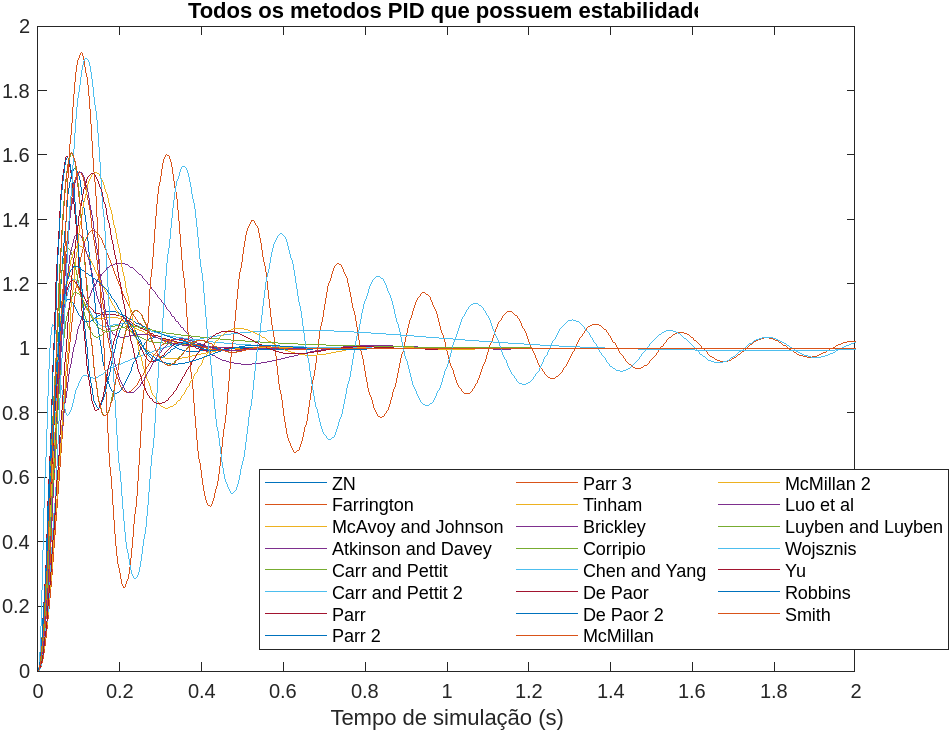
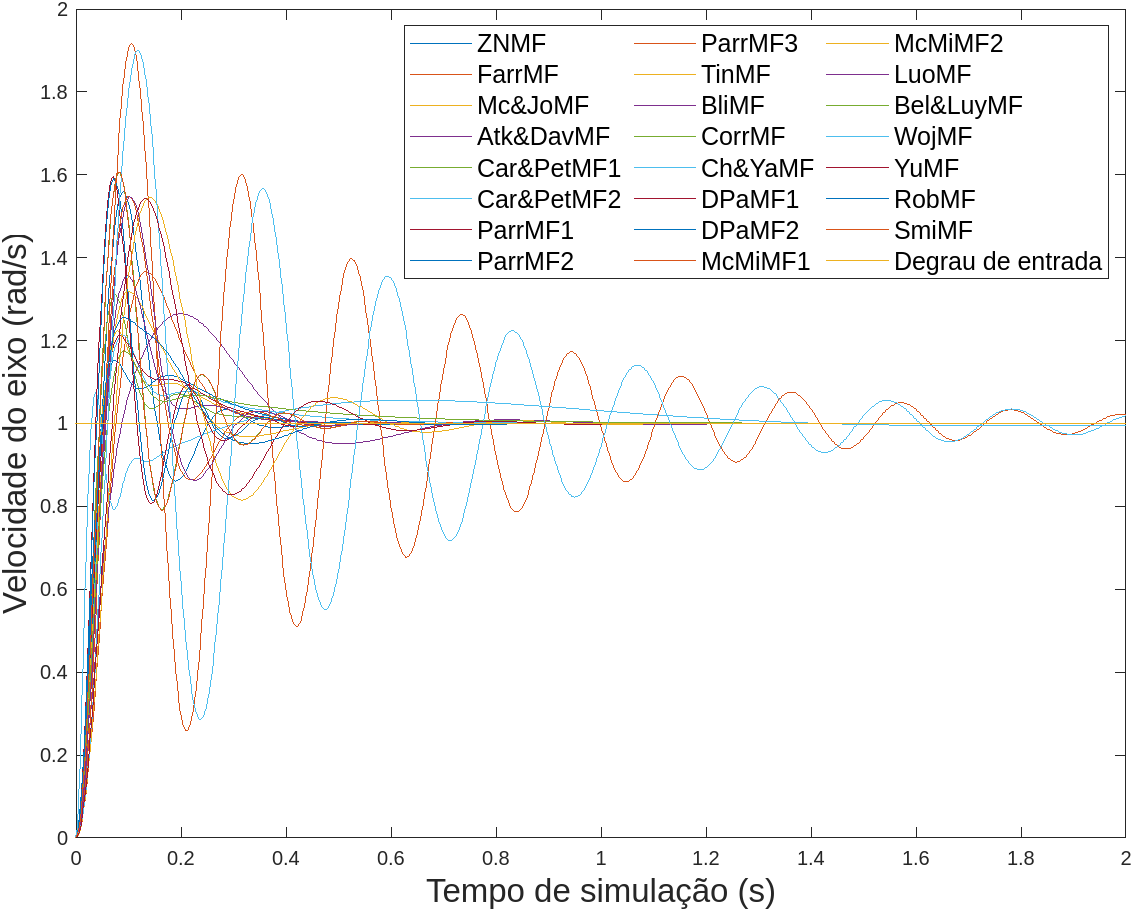
Update after partial report review

diff --git a/PID_Tuning.m b/PID_Tuning.m
@@ -11,11 +11,16 @@ function [Kp, Td, Ti, Metodos] = PID_Tuning(Tuning_Param,Type)
         K   = Tuning_Param(1);
         tal = Tuning_Param(2);
         T   = Tuning_Param(3);
-        Metodos = ["ZN"                   "Parr"          "Chidambaram" ...
-                   "Borresen and Grindal" "Murrill"       "Lipták"      ...
-                   "Alfaro Ruiz"          "Alfaro Ruiz 2" "PMA"         ...
-                   "PMA 2"                "Chien"         "Chien 2"     ...
-                   "Cohen and Coon"];
+%         "ZN"                   "Parr"          "Chidambaram" ...
+%                    "Borresen and Grindal" "Murrill"       "Lipták"      ...
+%                    "Alfaro Ruiz"          "Alfaro Ruiz 2" "PMA"         ...
+%                    "PMA 2"                "Chien"         "Chien 2"     ...
+%         
+        Metodos = ["ZNMA"      "ParrMA" "ChiMA"  ...
+                   "Bor&GriMA" "MurMA"  "LipMA"  ...
+                   "AlfMA1"    "AlfMA2" "PmaMA1" ...
+                   "PmaMA2"    "CHMA1"  "CHMA2"  ...
+                   "CCMA"];
         Kp = zeros(1,size(Metodos,2));
         Td = zeros(1,size(Metodos,2));
         Ti = zeros(1,size(Metodos,2));
@@ -89,15 +94,24 @@ function [Kp, Td, Ti, Metodos] = PID_Tuning(Tuning_Param,Type)
     if strcmp('MF', Type)
         K = Tuning_Param(1);
         T = Tuning_Param(2);
-        Metodos = ["ZN"                 "Farrington"           "McAvoy and Johnson" ...
-                   "Atkinson and Davey" "Carr and Pettit"      "Carr and Pettit 2"  ...
-                   "Parr"               "Parr 2"               "Parr 3"             ...
-                   "Tinham"             "Blickley"             "Corripio"           ...
-                   "Chen and Yang"      "De Paor"              "De Paor 2"          ...
-                   "McMillan"           "McMillan 2"           "Calcev and Gorez"   ...
-                   "Luo et al"          "Karaboga and Kalinli" "Luyben and Luyben"  ...
-                   "Wojsznis"           "Yu"                   "Robbins"            ...
-                   "Smith"];
+%         Metodos = ["ZN"                 "Farrington"           "McAvoy and Johnson"   ...
+%                    "Atkinson and Davey" "Carr and Pettit"      "Carr and Pettit 2"    ...
+%                    "Parr"               "Parr 2"               "Parr 3"               ...
+%                    "Tinham"             "Blickley"             "Corripio"             ...
+%                    "Chen and Yang"      "De Paor"              "De Paor 2"            ...
+%                    "McMillan"           "McMillan 2"           "Calcev and Gorez"     ...
+%                    "Luo et al"          "Karaboga and Kalinli" "Belanger and Luyben " ...
+%                    "Wojsznis"           "Yu"                   "Robbins"              ...
+%                    "Smith"];
+        Metodos = ["ZNMF"                 "FarrMF"           "Mc&JoMF" ...
+                   "Atk&DavMF" "Car&PetMF1"      "Car&PetMF2"  ...
+                   "ParrMF1"               "ParrMF2"               "ParrMF3"             ...
+                   "TinMF"             "BliMF"             "CorrMF"           ...
+                   "Ch&YaMF"      "DPaMF1"              "DPaMF2"          ...
+                   "McMiMF1"           "McMiMF2"           "Ca&GoMF"   ...
+                   "LuoMF"          "Kar&KalMF" "Bel&LuyMF"  ...
+                   "WojMF"           "YuMF"                   "RobMF"            ...
+                   "SmiMF"];
 
         Kp = zeros(1,size(Metodos,2));
         Td = zeros(1,size(Metodos,2));

diff --git a/PID_Run.m b/PID_Run.m
@@ -1,20 +1,22 @@
-function PID_Run(transfer, type, t, MF_K, subtitle)
+function PID_Run(transfer, type, t, MF_K, subtitle, f_0)
 %PID_RUN Run the entire PID execution script
 %   Runs all the functions necessary
 %   transfer - transfer function of the plant
 %   type - "MA" for open loop or "MF" for closed loop
 %   t - time that will be used for the simulation
-%   MF_K (0 if not closed loop) - Value for closed loop oscilation gain
+%   MF_K - (0 if not closed loop) - Value for closed loop oscilation gain
 %   Subtitle - Text to be shown in the Y axis of the graphs (Varies, X is
 %   always seconds)
+%   f_0 - In case the inflexion point in an open loop is not detected
+%   correctly, insert an number that can be used as a reference
     fname = "[PID_Run]";
-    
+    fontSize = 16;
     % Prepare the time
     t_max = t(end);
     
     % Define The non pid parameters
     if (type == "MA")
-        [K, tal, T] = MA(t, transfer, subtitle);
+        [K, tal, T] = MA(t, transfer, subtitle, f_0);
         Tuning_Param = [K, tal, T];
         
     elseif (type == "MF")
@@ -44,13 +46,13 @@ function PID_Run(transfer, type, t, MF_K, subtitle)
     Not_used = strings(1,size_Array);
     Used = strings(1,size_Array);
     figure(2);
-
     for i = 1:size_Array
         Kp = KP(i);
         Td = TD(i);
         Ti = TI(i);
         [stable, res] = PID_Execution(transfer,Kp, Ti, Td, t_max);
         if (stable < 0)
+            t_ref = res.tout;
             Used(i) = Metodos(i);
             plot(res.tout, res.out, 'DisplayName', Used(i));
             hold on; 
@@ -60,29 +62,34 @@ function PID_Run(transfer, type, t, MF_K, subtitle)
             Not_used(i) = Metodos(i);
         end
     end
-    title("Todos os metodos PID que possuem estabilidade");
-    xlabel("Tempo de simulação (s)");
-    ylabel(subtitle);
-    hold off;
-    lgd = legend;
-    lgd.NumColumns = 3;
-
+    hold on;
     % Clear the output
     [Used, Not_used, ISE, IAE, IATE, MSE, RMSE,   ...
      IADU, ITSE, ISTE, ITDE, ST, RT, MD, OS] =    ...
      ...
-     Clear_Output(Used, Not_used, ISE, IAE, IATE, ...
+     Clear_Output(Used, Not_used, KP, TD, TI, ISE, IAE, IATE, ...
      MSE, RMSE, IADU, ITSE, ISTE, ITDE, ST, RT, MD, OS);
+
+    plot(t_ref, ones(1,size(t_ref,1)));
+    xlabel("Tempo de simulação (s)", 'FontSize',fontSize);
+    legendText = [Used "Degrau de entrada"];
+    lgd = legend(legendText);
+    lgd.NumColumns = 3;
+    lgd.FontSize = 12;
+
+    ISE = ISE';
+    IAE = IAE';
+    IATE = IATE';
+    KP = arrayfun(@(a)num2str(round(a, 3)),KP,'uni',0);
+    TD = arrayfun(@(a)num2str(round(a, 3)),TD,'uni',0);
+    TI = arrayfun(@(a)num2str(round(a, 3)),TI,'uni',0);
+    espaco = cell(1, size(Used,2));
+    espaco(:) = {' || '};
+    PID = string(strcat(KP, espaco, TD, espaco, TI))';
     
-    legend(Used);
-
-    figure(3);
-    Table = table(ISE,IAE,IATE,MSE,RMSE,IADU,ITSE,ISTE,ITDE,ST,RT,MD,OS,'RowNames',cellstr(Used));
-    uitable('Data',Table{:,:},'ColumnName',Table.Properties.VariableNames,...
-    'RowName',Table.Properties.RowNames,'Units', 'Normalized', 'Position',[0, 0, 1, 1]);
-
-    fig = uifigure;
-    T = table(Not_used');
-    uitable(fig, 'Data', T, 'ColumnName', "Unstable methods");
+    Method = cellstr(Used)';
+    Table = table(Method, PID, ISE, IAE, IATE, MSE, RMSE, IADU, ...
+                  ITSE, ISTE, ITDE, ST, RT, MD, OS);
+    
     writetable(Table,'PERFORMANCE.xlsx','Sheet',1)
 end

diff --git a/MA.m b/MA.m
@@ -1,5 +1,6 @@
-function [K, tal, T] = MA(t, transfer, subtitle)
+function [K, tal, T] = MA(t, transfer, subtitle, f_0)
 %MA Simulates the step response and analyzes to get the tuning parameters
+    fontSize = 18;
     syms s;
     [NUM, DEN] = tfdata(transfer, 'v');
     DEN = [DEN 0];
@@ -11,7 +12,7 @@ function [K, tal, T] = MA(t, transfer, subtitle)
     d_1_h = matlabFunction(d_1);
     d_2 = diff(d_1);
     d_2_h = matlabFunction(d_2);
-    x_sample = fzero(d_2_h, 0);
+    x_sample = fzero(d_2_h, f_0);
     x_sample = find(x_sample >= t, 1 , 'last');
     if ((x_sample < 0) || isempty(x_sample))
         x_sample = find(x_sample > 0, 1 , 'first');
@@ -64,9 +65,12 @@ function [K, tal, T] = MA(t, transfer, subtitle)
     plot(t, f_t_h(t));
     hold on;
     plot(t, ones(1,size(t,1)));
-    title("Simulação de malha aberta com a reta característica de ZN");
-    xlabel("Tempo de simulação (s)");
-    ylabel(subtitle);
+    xlabel("Tempo de simulação (s)", 'FontSize', fontSize);
+    ylabel(subtitle, 'FontSize', fontSize);
+    lgd = legend("Reta no ponto de inflexão", ...
+           "Resposta do sistema", ...
+           "Degrau de entrada");
+    lgd.FontSize = 16;
 
     % Calculo dos outros parâmetros de estabilidade 
     T = tal_start;

diff --git a/Clear_Output.m b/Clear_Output.m
@@ -1,4 +1,4 @@
-function [Clear_Used, Clear_Unused, ISE, IAE, IATE, MSE, RMSE, IADU, ITSE, ISTE, ITDE, ST, RT, MD, OS] = Clear_Output(Used, Unused, ISE, IAE, IATE, MSE, RMSE, IADU, ITSE, ISTE, ITDE, ST, RT, MD, OS)
+function [Clear_Used, Clear_Unused, KP, TD, TI, ISE, IAE, IATE, MSE, RMSE, IADU, ITSE, ISTE, ITDE, ST, RT, MD, OS] = Clear_Output(Used, Unused, KP, TD, TI, ISE, IAE, IATE, MSE, RMSE, IADU, ITSE, ISTE, ITDE, ST, RT, MD, OS)
 %CLEAR_OUTPUT Gets all the parameters for the stable functions
 %   Uses the empty spaces in Used to now which performance metrics from the
 %   arrays to ignore and set arrays with all the necessary values for
@@ -9,6 +9,9 @@ Used_index = ~cellfun(@isempty,cellstr(Used));
 Clear_Used = Used(Used_index);
 Clear_Unused = Unused(~Used_index);
 
+KP = real(KP(Used_index)); 
+TD = real(TD(Used_index)); 
+TI = real(TI(Used_index)); 
 ISE = real(ISE(Used_index)); 
 IAE = real(IAE(Used_index)); 
 IATE = real(IATE(Used_index)); 

diff --git a/MF.m b/MF.m
@@ -1,18 +1,20 @@
 function [T] = MF(t,transfer, K, subtitle)
 %MF Gets the parameter for closed loop and prints the step response
+    fontSize = 18;
     syms s;
     transfer = feedback(transfer*K,1);
     
     figure(1);
     [out ,tout] = step(transfer, t(end));
     plot(tout, out);
-    title("Malha fechada em oscilação");
-    xlabel("Tempo de simulação [s]");
-    ylabel(subtitle);
+    xlabel("Tempo de simulação (s)", 'FontSize', fontSize);
+    ylabel(subtitle, 'FontSize', fontSize);
     hold on;
     plot (tout, ones(size(tout,1),1));
     [NUM, DEN] = tfdata(transfer);
     func = vpa(poly2sym(cell2mat(NUM),s)/poly2sym(cell2mat(DEN),s));
+    lgd = legend("Resposta do sistema", "Degrau de entrada");
+    lgd.FontSize = 16;
     f_t = ilaplace(func);
     f_t_h = matlabFunction(f_t);
 

diff --git a/PID_Electro_actuator/script.m b/PID_Electro_actuator/script.m
@@ -55,6 +55,6 @@ res = sim("actuator.slx");
 
 t = res.tout;
 type = "MA";
-subtitle = "Velocidade angular [rad/seg]";
-
-PID_Run(transfer, type, t, 0, subtitle);
+subtitle = "Velocidade angular (rad/seg)";
+f_0 = 2.5;
+PID_Run(transfer, type, t, 0, subtitle, f_0);

diff --git a/PID_DC_POS/script.m b/PID_DC_POS/script.m
@@ -25,4 +25,4 @@ type = "MA";
 subtitle = "Velocidade angular (rad/s)";
 MF_K = 0;
 t = tout;
-PID_Run(transfer, type, t, MF_K, subtitle);
+PID_Run(transfer, type, t, MF_K, subtitle, 0);

diff --git a/PID_Spacecraft/script.m b/PID_Spacecraft/script.m
@@ -41,4 +41,4 @@ plot(stepT, stepOut*(1/entrada));
 
 type = "MF";
 subtitle = "Ângulo [º]";
-PID_Run(transfer, type, t, K, subtitle);
+PID_Run(transfer, type, t, K, subtitle, 0);

diff --git a/PID_DC Motor/DC_MOTOR_analisys.m b/PID_DC Motor/DC_MOTOR_analisys.m
@@ -37,4 +37,4 @@ type = "MF";
 t = res.tout;
 
 subtitle = "Velocidade do eixo (rad/s)";
-PID_Run(transfer, type, t, K, subtitle);
+PID_Run(transfer, type, t, K, subtitle, 0);

diff --git a/PID_Voltage_inverter/script.m b/PID_Voltage_inverter/script.m
@@ -27,4 +27,4 @@ t = res.tout;
 
 subtitle = "Corrente de saída [A]";
 
-PID_Run(transfer, "MF", t, K, subtitle)
+PID_Run(transfer, "MF", t, K, subtitle, 0)
